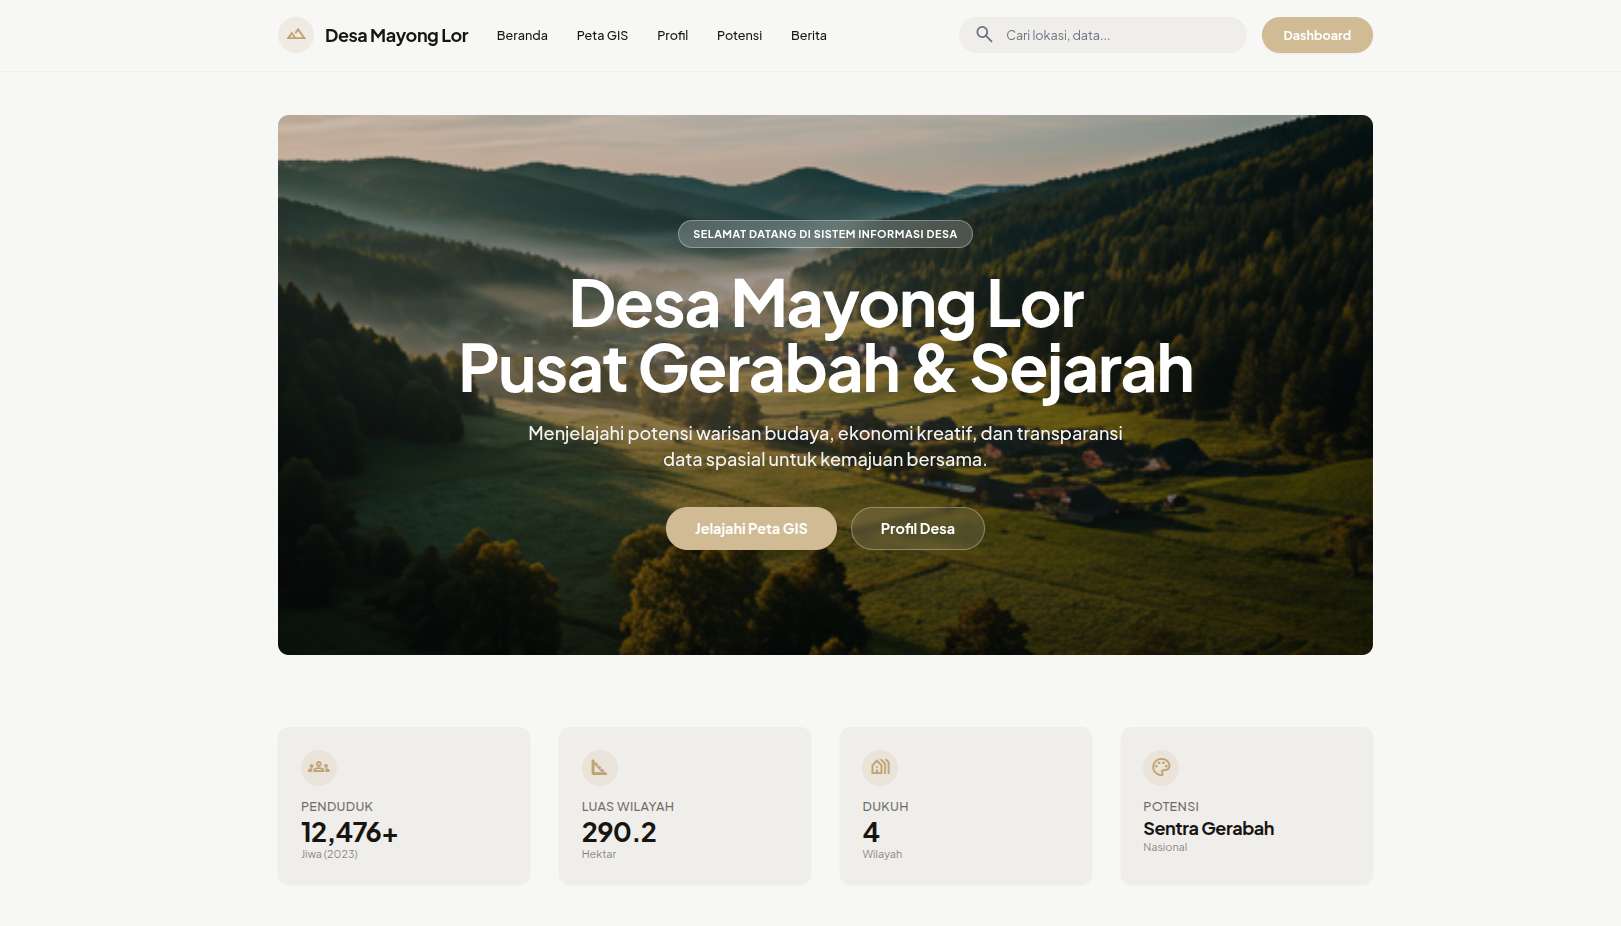
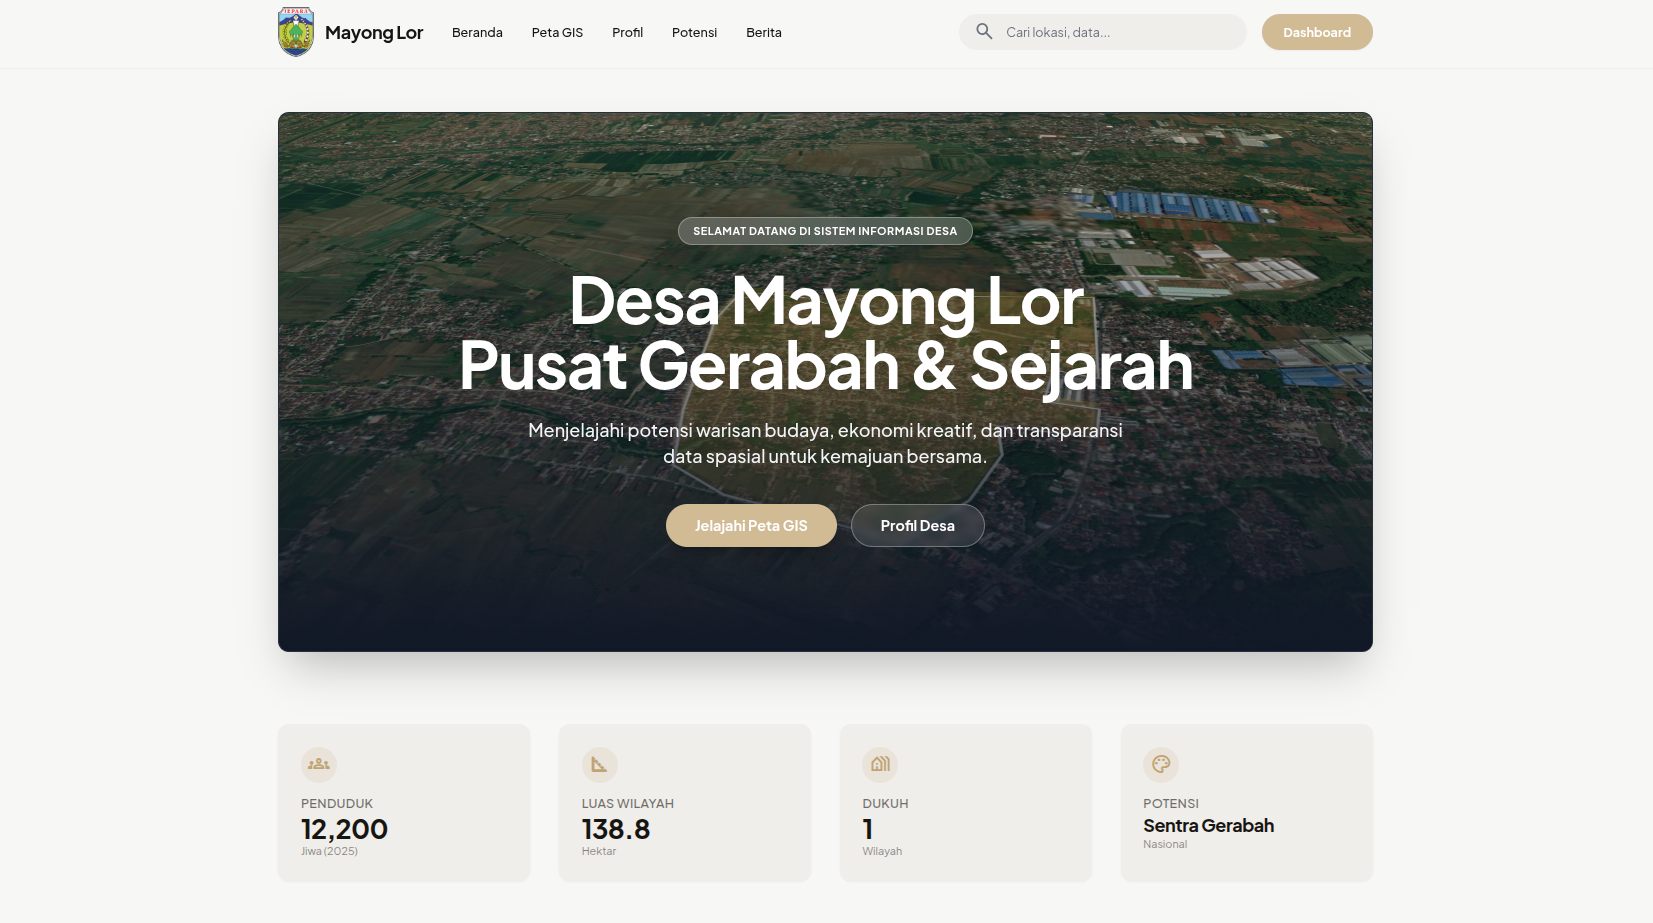
feat: image update and final

diff --git a/README.md b/README.md
@@ -1,108 +1,136 @@
-
 # 🗺 Sistem Informasi Geografis Desa Mayong Lor
 
 ![Banner Project](/public/images/landing-page.png)
 
-> **Platform pemetaan digital terintegrasi untuk transparansi data, pembangunan infrastruktur, dan pelayanan publik Desa Mayong Lor.**
+> **Platform pemetaan digital terintegrasi untuk transparansi data, pembangunan infrastruktur, dan pelayanan publik Desa Mayong Lor, Kabupaten Jepara.**
+
+---
 
 ## 📖 Tentang Project
 
-**Mayonglor GIS** adalah aplikasi web berbasis *Geographic Information System* (GIS) yang dikembangkan untuk memetakan potensi, aset, dan infrastruktur Desa Mayong Lor secara digital.
+**Mayong Lor GIS** adalah aplikasi web berbasis *Geographic Information System* (GIS) modern yang dikembangkan untuk mendigitalisasi aset dan potensi wilayah Desa Mayong Lor. Aplikasi ini berfungsi sebagai pusat data spasial yang dapat diakses oleh masyarakat umum maupun perangkat desa.
 
-Aplikasi ini memudahkan perangkat desa dalam mengelola data spasial (seperti batas wilayah, jalan, irigasi, dan penggunaan lahan) serta memberikan akses informasi yang transparan dan mudah diakses bagi masyarakat luas.
-
-## 🛠 Tech Stack
-
-Project ini dibangun menggunakan teknologi modern untuk menjamin performa, keamanan, dan kemudahan pengembangan.
-
-| Tech | Badge |
-| --- | --- |
-| **Framework** | ![Laravel](https://img.shields.io/badge/Laravel-FF2D20?style=for-the-badge&logo=laravel&logoColor=white) |
-| **Language** | ![PHP](https://img.shields.io/badge/PHP-777BB4?style=for-the-badge&logo=php&logoColor=white) |
-| **Database** | ![MySQL](https://img.shields.io/badge/MySQL-4479A1?style=for-the-badge&logo=mysql&logoColor=white) |
-| **Frontend** | ![TailwindCSS](https://img.shields.io/badge/Tailwind_CSS-38B2AC?style=for-the-badge&logo=tailwind-css&logoColor=white) ![Alpine.js](https://img.shields.io/badge/Alpine.js-8BC0D0?style=for-the-badge&logo=alpine.js&logoColor=white) |
-| **Mapping** | ![Leaflet](https://img.shields.io/badge/Leaflet-199900?style=for-the-badge&logo=leaflet&logoColor=white) |
+Tujuan utama aplikasi ini adalah:
+1.  **Transparansi Publik**: Memberikan akses terbuka terhadap data infrastruktur, penggunaan lahan, dan batas wilayah.
+2.  **Perencanaan Pembangunan**: Membantu pemerintah desa dalam mengambil keputusan berbasis data spasial.
+3.  **Promosi Potensi Desa**: Menampilkan lokasi-lokasi strategis seperti UMKM, pariwisata, dan fasilitas umum.
 
 ## ✨ Fitur Utama
 
--   **🗺 Peta Interaktif**: Jelajahi peta desa dengan tampilan satelit, *hybrid*, dan *terrain*.
--   **📍 Manajemen Kategori**: Pencarian lokasi berdasarkan kategori (Masjid, Sekolah, Balai Desa, dll).
--   **📏 Layer Spasial**:
-    -   **Batas Wilayah**: Visualisasi batas RT/RW dan dusun.
-    -   **Infrastruktur**: Pemetaan jalan, sungai, dan saluran irigasi.
-    -   **Penggunaan Lahan**: Data sawah, perkebunan, dan pemukiman.
--   **📊 Dashboard Admin**: Panel khusus untuk mengelola data lokasi dan spasial secara visual.
--   **👥 Data Kependudukan**: Ringkasan statistik demografi desa.
--   **📄 Laporan**: Export data ke format CSV dan HTML.
+### 🌍 Halaman Publik (Landing Page)
+-   **Hero Map 3D**: Peta interaktif 3D menggunakan MapLibre GL JS untuk visualisasi wilayah yang memukau.
+-   **Statistik Desa**: Ringkasan data kependudukan, luas wilayah, dan potensi desa secara *real-time*.
+-   **Berita & Pengumuman**: Informasi terbaru seputar kegiatan desa.
+-   **Peta Jelajah (Explore Map)**:
+    -   🔍 **Pencarian Lokasi**: Cari dukuh, jalan, atau bangunan publik dengan cepat.
+    -   🗺 **Layer Control**: Toggle layer Batas Wilayah (Sawah, Pemukiman), Infrastruktur (Jalan, Sungai), dan Penggunaan Lahan.
+    -   📍 **Kategori Lokasi**: Filter lokasi berdasarkan kategori (Pendidikan, Kesehatan, Pemerintahan, dll).
+    -   📱 **Responsif Mobile**: Tampilan peta yang optimal di perangkat *mobile* (smartphone/tablet).
+
+### 🔐 Admin Dashboard
+-   **Manajemen Lokasi (Places)**: CRUD data lokasi penting beserta koordinat dan informasinya.
+-   **Manajemen Spasial**:
+    -   Input data **Batas Wilayah** (Polygon).
+    -   Input data **Jalan & Sungai** (Polyline).
+    -   Input data **Penggunaan Lahan** (Polygon/Area).
+-   **Data Kependudukan**: Update data statistik populasi desa.
+-   **Import & Export**: Fitur import data GeoJSON dan export laporan ke format CSV/HTML.
+
+## 🛠 Tech Stack
+
+Project ini dibangun dengan stack teknologi *monolith* modern yang handal:
+
+| Kategori | Teknologi | Deskripsi |
+| :--- | :--- | :--- |
+| **Framework** | ![Laravel](https://img.shields.io/badge/Laravel-FF2D20?style=flat-square&logo=laravel&logoColor=white) | Framework PHP utama (v11/12). |
+| **Database** | ![MySQL](https://img.shields.io/badge/MySQL-4479A1?style=flat-square&logo=mysql&logoColor=white) | Penyimpanan data relasional & spasial. |
+| **Frontend** | ![TailwindCSS](https://img.shields.io/badge/Tailwind_CSS-38B2AC?style=flat-square&logo=tailwind-css&logoColor=white) | Framework CSS *utility-first* untuk styling. |
+| **Interactivity** | ![Alpine.js](https://img.shields.io/badge/Alpine.js-8BC0D0?style=flat-square&logo=alpine.js&logoColor=white) | Framework JS ringan untuk interaksi frontend. |
+| **Interactive Map** | ![Leaflet](https://img.shields.io/badge/Leaflet-199900?style=flat-square&logo=leaflet&logoColor=white) | Library peta utama (2D). |
+| **3D Map** | ![MapLibre](https://img.shields.io/badge/MapLibre-1A1E29?style=flat-square&logo=maplibre&logoColor=white) | Library peta 3D untuk Hero Section. |
 
 ## ⚙ Prasyarat (Prerequisites)
 
-Sebelum memulai, pastikan sistem Anda telah terinstal:
+Pastikan lingkungan kerja Anda sudah terinstal:
+-   **PHP** >= 8.2
+-   **Composer** (PHP Dependency Manager)
+-   **Node.js** & **NPM** (untuk build assets)
+-   **MySQL** / MariaDB (support spatial extensions)
 
--   **PHP**: Versi 8.2 atau lebih baru.
--   **Composer**: Untuk manajemen dependensi PHP.
--   **Node.js & NPM**: Untuk *compile* aset frontend.
--   **MySQL**: Database server.
+## 🚀 Cara Instalasi & Menjalankan Project
 
-## 🚀 Cara Instalasi
-
-Ikuti langkah-langkah berikut untuk menjalankan project di komputer lokal Anda:
+Ikuti langkah-langkah berikut untuk setup project di komputer lokal (Localhost):
 
 ### 1. Clone Repository
-
 ```bash
 git clone https://github.com/danyakmallun9999/landing-page-mayonglor-gis.git
 cd landing-page-mayonglor-gis
 ```
 
-### 2. Jalankan Setup Otomatis
-
-Project ini memiliki *script* setup otomatis yang akan:
-- Menginstall dependensi PHP (Composer)
-- Menyalin file konfigurasi `.env`
-- Membuat *APP_KEY*
-- Menjalankan migrasi database
-- Menginstall & build dependensi frontend (NPM)
-
+### 2. Install Dependencies
+Install paket PHP dan JavaScript yang dibutuhkan:
 ```bash
-composer run setup
+composer install
+npm install
 ```
 
-> **Catatan:** Pastikan Anda sudah membuat database kosong bernama `mayonglor_gis` (atau sesuaikan di `.env`) sebelum menjalankan perintah di atas.
-
-### 3. Konfigurasi Database (Manual)
-
-Jika setup otomatis gagal atau Anda ingin konfigurasi manual, edit file `.env`:
-
+### 3. Konfigurasi Environment
+Salin file contoh `.env` dan sesuaikan konfigurasi database:
+```bash
+cp .env.example .env
+```
+Buka file `.env` dan atur detail database Anda:
 ```env
 DB_CONNECTION=mysql
 DB_HOST=127.0.0.1
-DB_PORT=3306
-DB_DATABASE=mayonglor_gis
+DB_port=3306
+DB_DATABASE=mayonglor_gis  # Pastikan DB ini sudah dibuat
 DB_USERNAME=root
 DB_PASSWORD=
 ```
 
-### 4. Jalankan Server Development
-
+### 4. Setup Database & Key
+Generate Application Key, jalankan migrasi database, dan (opsional) seeder data dummy:
 ```bash
+php artisan key:generate
+php artisan migrate --seed  # --seed akan mengisi data awal
+```
+
+### 5. Build Assets & Run Server
+Jalankan perintah berikut untuk meng-compile aset (CSS/JS) dan menjalankan server development:
+```bash
+# Jalankan server development (Laravel + Vite)
 composer run dev
 ```
-Perintah ini akan menjalankan server Laravel dan Vite secara bersamaan.
 
-Akses aplikasi di: [http://127.0.0.1:8000](http://127.0.0.1:8000)
+Aplikasi dapat diakses melalui browser di: **[http://localhost:8000](http://localhost:8000)**
 
-## 🔑 Akun Default
+## 👤 Akun Admin Default
 
-(Jika ada seeder user default, tambahkan di sini. Jika tidak, kosongkan atau beri instruksi cara buat user).
+Jika Anda menjalankan `php artisan migrate --seed`, akun admin default berikut akan dibuat:
 
-## 📦 Dependencies Utama
+-   **Email**: `admin@mayonglor.id` (atau cek `DatabaseSeeder.php`)
+-   **Password**: `password`
 
--   `laravel/framework`: Core framework.
--   `leaflet`: Library open-source untuk peta interaktif.
--   `intervention/image`: Manipulasi gambar (jika digunakan).
--   `maatwebsite/excel`: Export laporan (asumsi dari fitur export).
+## 📁 Struktur Direktori Penting
+
+-   `app/Http/Controllers`: Logika backend (Admin, Map, API).
+-   `resources/views`: Tampilan frontend (Blade Templates).
+    -   `welcome.blade.php`: Halaman utama / Landing Page.
+    -   `explore-map.blade.php`: Halaman peta interaktif full-screen.
+-   `routes/web.php`: Definisi rute aplikasi.
+-   `public/`: Aset publik (gambar, file statis).
+
+## 🤝 Kontribusi
+
+Kontribusi selalu terbuka! Jika Anda ingin meningkatkan fitur atau memperbaiki bug:
+1.  Fork repository ini.
+2.  Buat branch fitur baru (`git checkout -b fitur-keren`).
+3.  Commit perubahan Anda (`git commit -m 'Menambahkan fitur keren'`).
+4.  Push ke branch (`git push origin fitur-keren`).
+5.  Buat Pull Request.
 
 ---
 
-© 2025 Pemerintah Desa Mayong Lor. Dibuat dengan ❤ untuk kemajuan desa.
+**© 2025 Pemerintah Desa Mayong Lor**  
+*Dikembangkan untuk kemajuan desa dan kesejahteraan masyarakat.*
